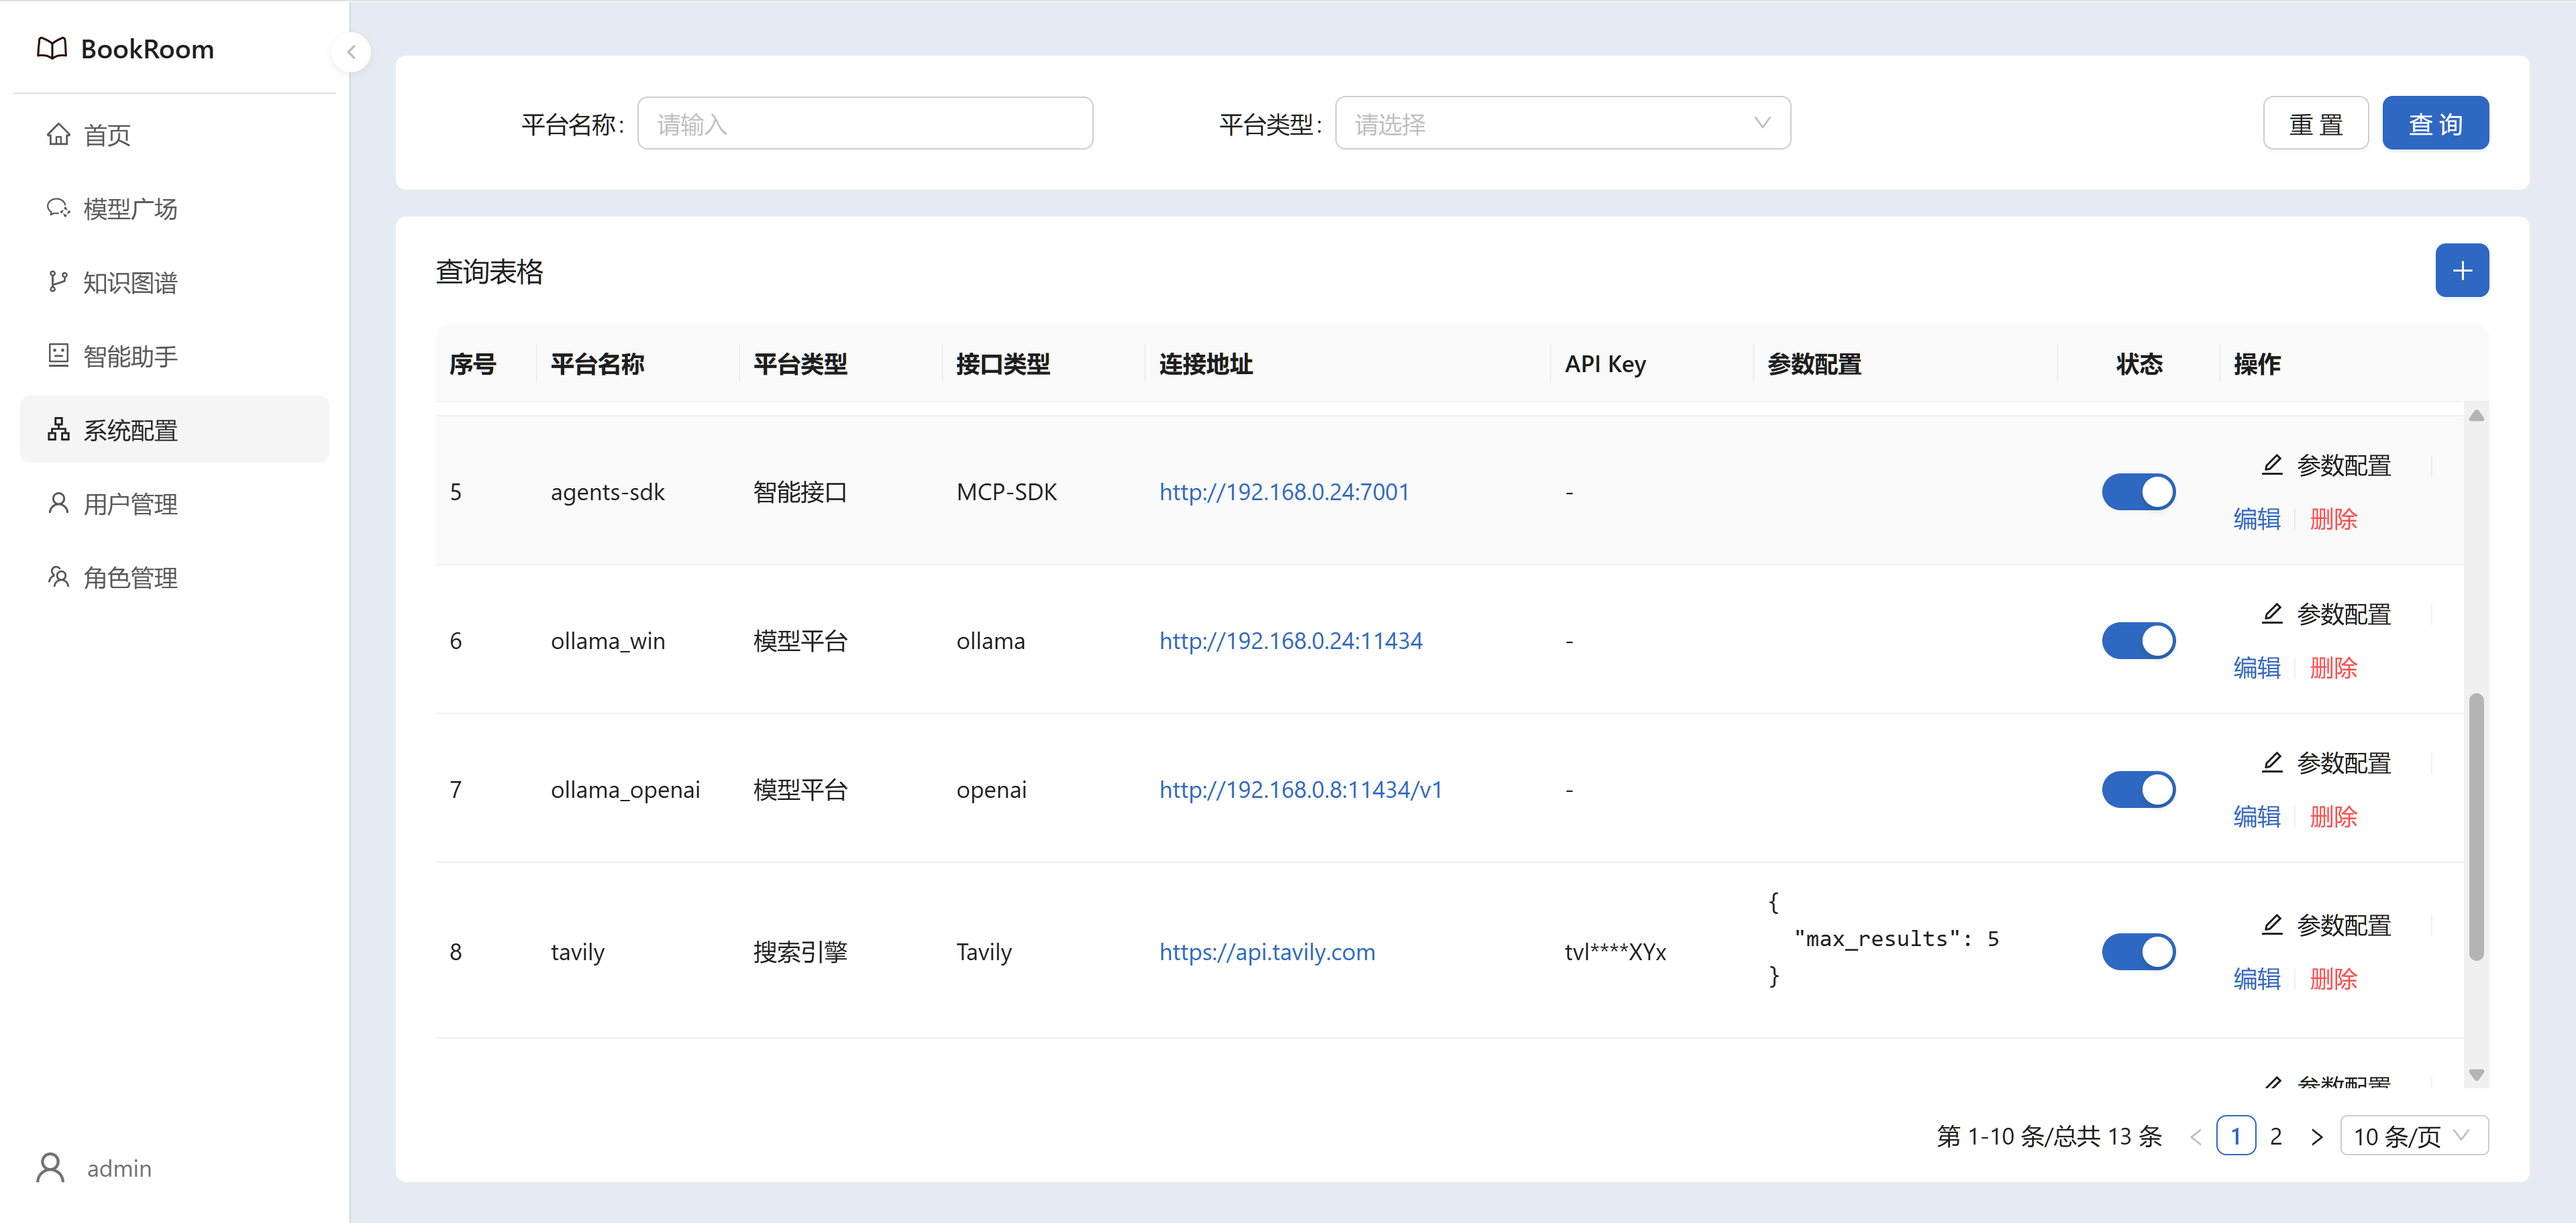
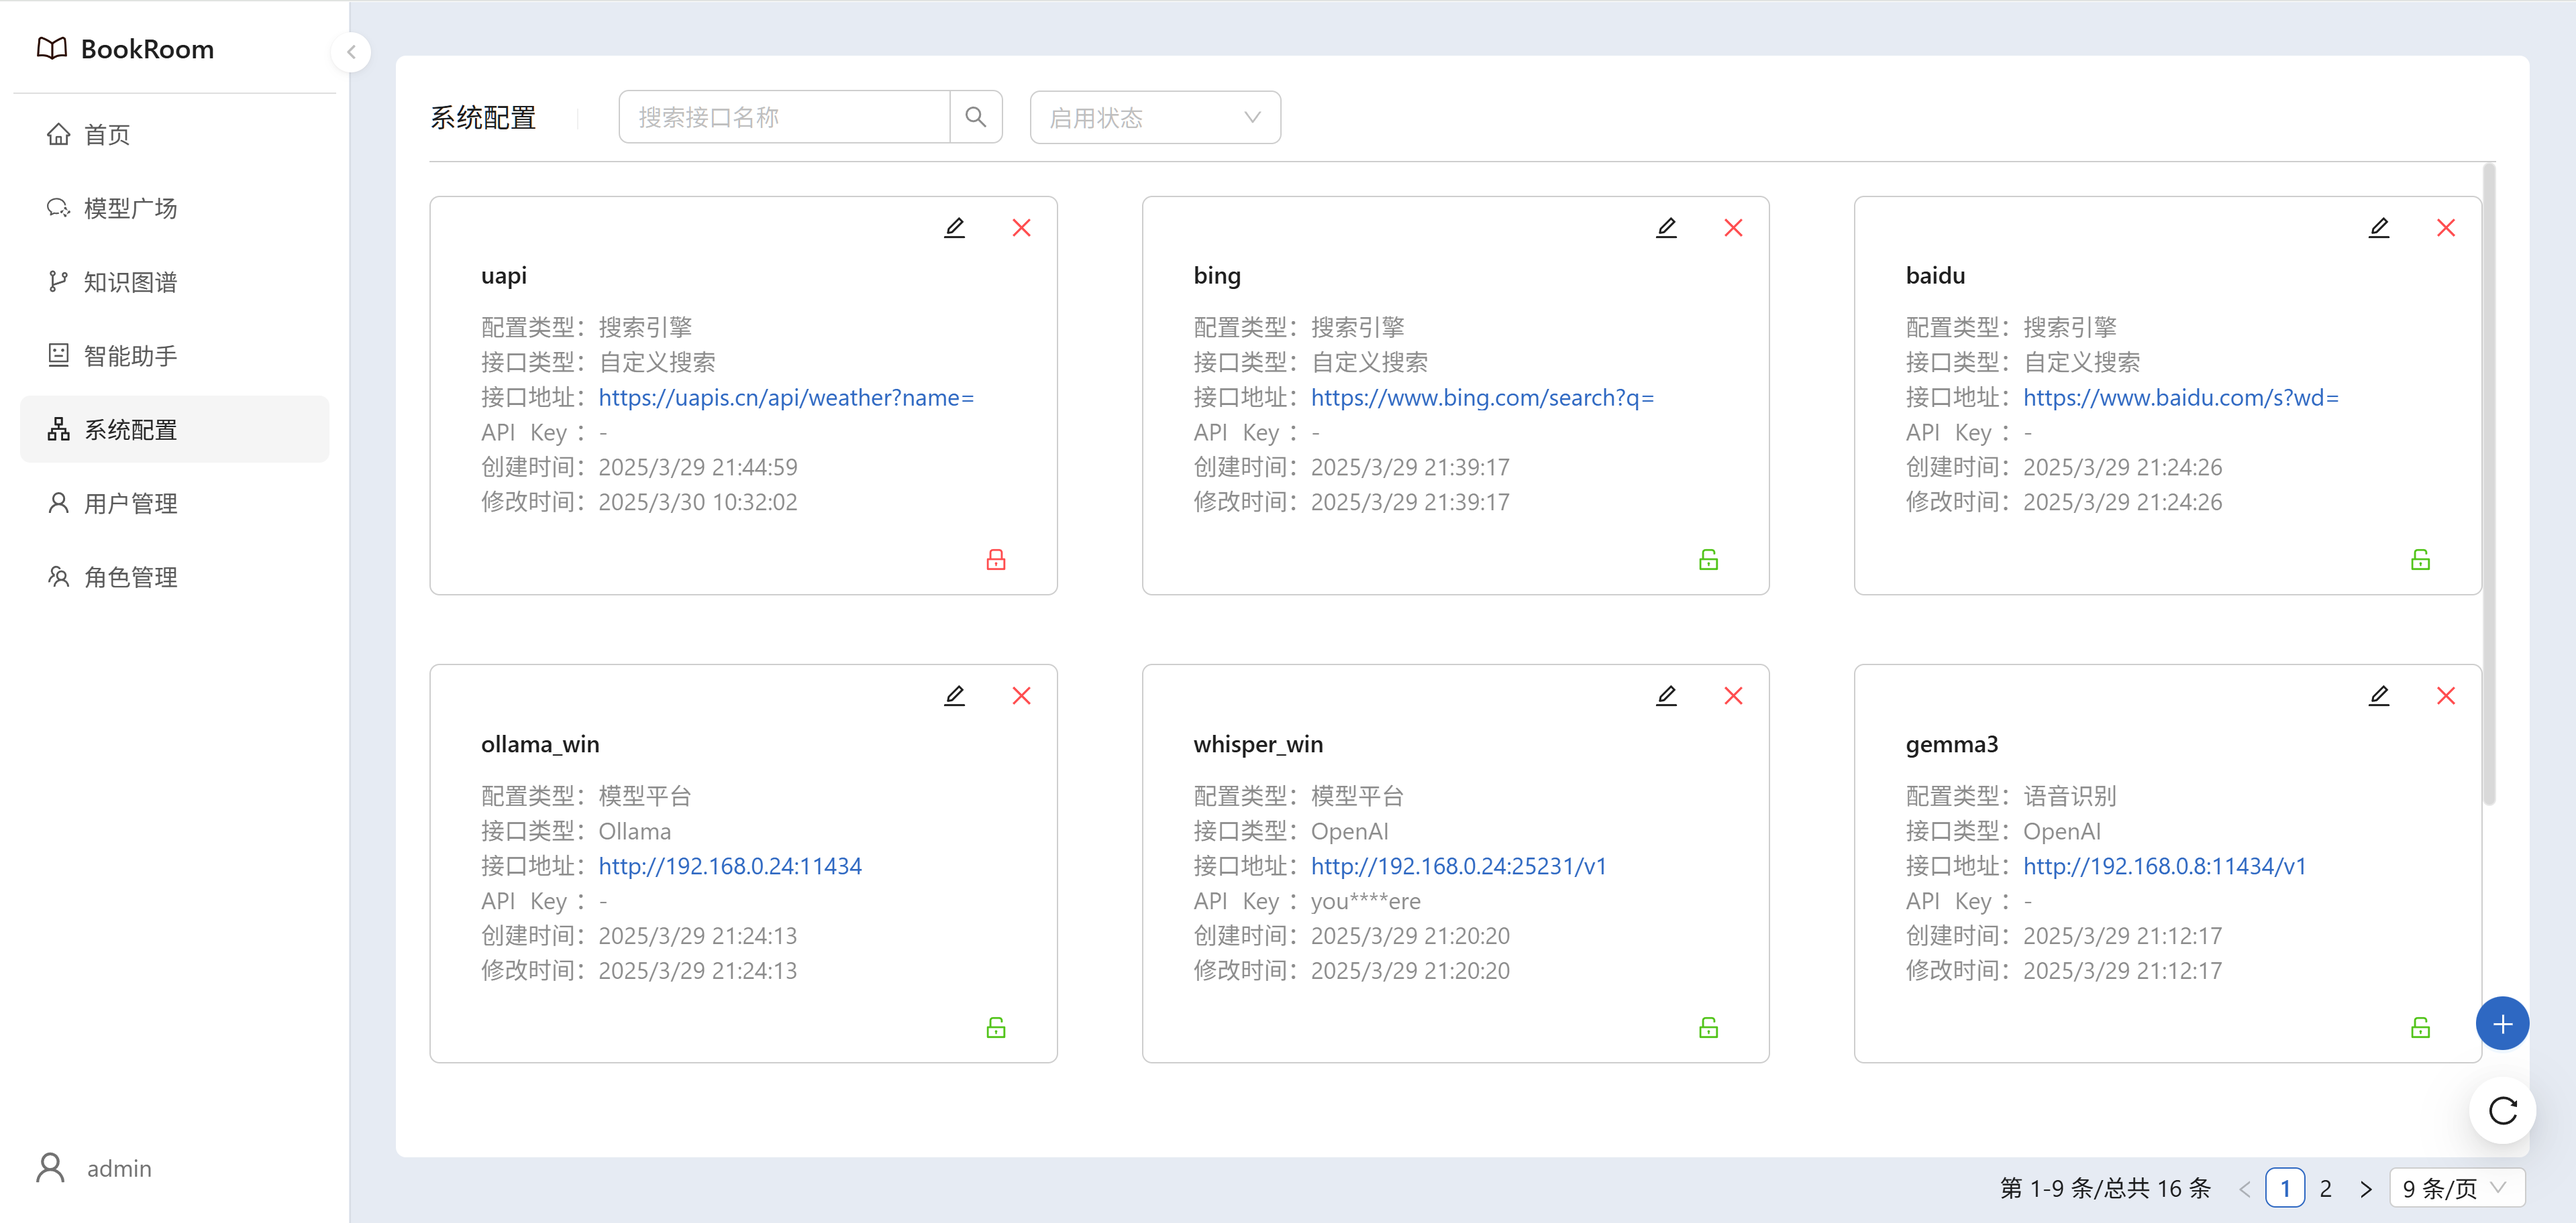
chore(UI): 优化交互，移除LightRag_Multi接口类型，新增BookRoom Rag，重启多空间、多模态知识图谱项目

diff --git a/bookroom-web/src/components/Platform/PlatformCard/index.less b/bookroom-web/src/components/Platform/PlatformCard/index.less
@@ -38,41 +38,31 @@
   padding: 0;
   // min-height: 200px;
   line-height: 1.2;
-  text-align: justify;
-  // word-break: keep-all;
-  // word-wrap: normal;
-  // white-space: pre-line;
-  overflow: hidden;
-
-  /* 使用省略号表示被省略的内容 */
-  text-overflow: ellipsis;
-
-  // /* 将元素作为弹性伸缩盒子模型处理 */
-  // display: -webkit-box;
-
-  // /* 限制最大行数为2行 */
-  // -webkit-line-clamp: 3;
-
-  // /* 设置垂直布局 */
-  // -webkit-box-orient: vertical;
 }
 
 .cardItemNode {
+  width: 100%;
   padding: 2px 0;
-  /* 确保超出容器的文本会被裁剪 */
-  white-space: nowrap;
+  display: flex;
+  flex-direction: row;
 
   .nodeLabel {
+    flex: none;
     width: 5em;
     padding: 0;
     text-align: justify;
     text-align-last: justify;
-    display: inline-block;
   }
 
   .nodeContent {
-    padding: 5px 0;
-    display: inline-block;
+    flex: 1;
+    padding: 0;
+    // 文字超出省略
+    overflow: hidden;
+    /* 确保超出容器的文本会被裁剪 */
+    white-space: nowrap;
+    /* 确保文本在一行内显示 */
+    text-overflow: ellipsis;
   }
 
   .dividerLabel {

diff --git a/bookroom-web/src/components/Agent/AgentCard/index.less b/bookroom-web/src/components/Agent/AgentCard/index.less
@@ -58,21 +58,31 @@
 }
 
 .cardItemNode {
+  width: 100%;
   padding: 2px 0;
+  display: flex;
+  flex-direction: row;
 
   .nodeLabel {
+    flex: none;
     width: 5em;
     padding: 0;
     text-align: justify;
     text-align-last: justify;
-    display: inline-block;
   }
 
   .nodeContent {
-    padding: 5px 0;
-    display: inline-block;
+    flex: 1;
+    padding: 0;
+    // 文字超出省略
+    overflow: hidden;
+    /* 确保超出容器的文本会被裁剪 */
+    white-space: nowrap;
+    /* 确保文本在一行内显示 */
+    text-overflow: ellipsis;
   }
-  .dividerLabel{
+
+  .dividerLabel {
     margin: 5px 0;
     font-size: 12px;
   }
@@ -107,7 +117,10 @@
     vertical-align: middle;
   }
 }
-
+.cardItemNode_description{
+  display: flex;
+  flex-direction: column;
+}
 // 头像/图标
 .cardItemAvatar {
   height: 24px;

diff --git a/bookroom-web/src/components/Platform/PlatformList/index.tsx b/bookroom-web/src/components/Platform/PlatformList/index.tsx
@@ -27,6 +27,7 @@ import styles from './index.less';
 import classNames from 'classnames';
 import PlatformCard from '@/components/Platform/PlatformCard';
 import { PLATFORM_STATUS_MAP } from '@/services/common/platform/enum';
+import { ReloadOutlined } from '@ant-design/icons';
 type PlatformListPropsType = {
   dataList: API.PlatformInfo[];
   refresh: () => void;
@@ -439,6 +440,14 @@ const PlatformList: React.FC<PlatformListPropsType> = (props) => {
             onFinished={(values) => handleAdd(values)}
             refresh={refresh}
           />
+          <FloatButton
+            tooltip="刷新"
+            icon={<ReloadOutlined />}
+            key="refresh"
+            onClick={() => {
+              refresh();
+            }}
+          ></FloatButton>
         </FloatButton.Group>
       </Space>
 

diff --git a/bookroom-web/src/components/Graph/GraphCard/index.less b/bookroom-web/src/components/Graph/GraphCard/index.less
@@ -58,16 +58,28 @@
 }
 
 .cardItemNode {
+  width: 100%;
   padding: 2px 0;
+  display: flex;
+  flex-direction: row;
 
   .nodeLabel {
+    flex: none;
+    width: 5em;
     padding: 0;
-    display: inline-block;
+    text-align: justify;
+    text-align-last: justify;
   }
 
   .nodeContent {
-    padding: 5px 0;
-    display: inline-block;
+    flex: 1;
+    padding: 0;
+    // 文字超出省略
+    overflow: hidden;
+    /* 确保超出容器的文本会被裁剪 */
+    white-space: nowrap;
+    /* 确保文本在一行内显示 */
+    text-overflow: ellipsis;
   }
 
   .nodeBox {

diff --git a/bookroom-web/src/components/Lm/LmCard/index.less b/bookroom-web/src/components/Lm/LmCard/index.less
@@ -58,16 +58,28 @@
 }
 
 .cardItemNode {
+  width: 100%;
   padding: 2px 0;
+  display: flex;
+  flex-direction: row;
 
   .nodeLabel {
+    flex: none;
+    width: 5em;
     padding: 0;
-    display: inline-block;
+    text-align: justify;
+    text-align-last: justify;
   }
 
   .nodeContent {
-    padding: 5px 0;
-    display: inline-block;
+    flex: 1;
+    padding: 0;
+    // 文字超出省略
+    overflow: hidden;
+    /* 确保超出容器的文本会被裁剪 */
+    white-space: nowrap;
+    /* 确保文本在一行内显示 */
+    text-overflow: ellipsis;
   }
 
   .nodeBox {

diff --git a/bookroom-web/src/components/Graph/GraphCard/index.tsx b/bookroom-web/src/components/Graph/GraphCard/index.tsx
@@ -50,7 +50,7 @@ const GraphCard: React.FC<GraphCardPropsType> = (props: GraphCardPropsType) => {
   const [loading, setLoading] = useState(false);
   const { getGraphInfo } = useModel('graphList');
   const graphInfo = getGraphInfo(item?.graph);
-  const canEdit = access.canSeeDev && mode === MODE_ENUM.EDIT && graphInfo?.code === AI_GRAPH_PLATFORM_MAP.lightrag_multi.value
+  const canEdit = access.canSeeDev && mode === MODE_ENUM.EDIT && graphInfo?.code === AI_GRAPH_PLATFORM_MAP.bookroomrag.value
 
 
   // 删除图谱空间

diff --git a/bookroom-web/src/components/Agent/AgentCard/index.tsx b/bookroom-web/src/components/Agent/AgentCard/index.tsx
@@ -107,7 +107,7 @@ const AgentCard: React.FC<AgentCardPropsType> = (props: AgentCardPropsType) => {
                   </div>
                 </div>
               )}
-              <div className={styles?.cardItemNode}>
+              <div className={classNames(styles.cardItemNode, styles.cardItemNode_description)}>
                 <Divider orientation="center" plain className={styles?.dividerLabel}>
                   描述
                 </Divider>

diff --git a/bookroom-web/src/components/Graph/GraphList/index.tsx b/bookroom-web/src/components/Graph/GraphList/index.tsx
@@ -56,7 +56,7 @@ const GraphList: React.FC<GraphListPropsType> = (props) => {
 
   const access = useAccess();
 
-  const canEdit = access.canSeeDev && mode === MODE_ENUM.EDIT  && graphInfo?.code === AI_GRAPH_PLATFORM_MAP.lightrag_multi.value
+  const canEdit = access.canSeeDev && mode === MODE_ENUM.EDIT  && graphInfo?.code === AI_GRAPH_PLATFORM_MAP.bookroomrag.value
 
   const isLoading = !!loading;
 

diff --git a/bookroom-api/api/common/ai.ts b/bookroom-api/api/common/ai.ts
@@ -40,9 +40,9 @@ export const AI_GRAPH_PLATFORM_MAP = {
     value: 'LightRAG',
     text: 'LightRAG',
   },
-  lightrag_multi: {
-    value: 'LightRAG_Multi',
-    text: 'LightRAG_Multi',
+  bookroomrag: {
+    value: 'BookRoomRAG',
+    text: 'BookRoom RAG',
   },
 };
 

diff --git a/bookroom-web/src/common/ai.ts b/bookroom-web/src/common/ai.ts
@@ -39,9 +39,9 @@ export const AI_GRAPH_PLATFORM_MAP = {
     value: 'LightRAG',
     text: 'LightRAG',
   },
-  lightrag_multi: {
-    value: 'LightRAG_Multi',
-    text: 'LightRAG_Multi',
+  bookroomrag: {
+    value: 'BookRoomRAG',
+    text: 'BookRoom RAG',
   },
 };
 

diff --git a/README.md b/README.md
@@ -21,13 +21,16 @@
 
 - ### 知识图谱（多知识图谱管理、2D/3D图谱展示、图谱问答）- 功能完善中
   - [LightRAG](https://github.com/HKUDS/LightRAG)
-  - [LightRAG_Multi(多图谱空间版本)](https://github.com/sndraw/LightRAG-Multi)
+  - [BookRoom RAG](https://github.com/sndraw/bookroom-rag)
 
 - ### 智能助手（多智能助手管理、自动执行任务）- 功能架构中
   - [BookRoom Agents](https://github.com/sndraw/bookroom-agents)
 
-- ### 语音识别（本地语音识别、云端语音识别）- 功能架构中
+- ### 语音识别（本地语音识别、云端语音识别）- 功能完善中
   - [BookRoom Audio](https://github.com/sndraw/bookroom-audio)
+
+- ### 智能管家 （智能设备管理、任务调度设置）- 功能架构中
+  - [BookRoom Robot](https://github.com/sndraw/bookroom-robot)
 
 - ### 用户管理
   - 用户注册和登录管理
@@ -46,22 +49,15 @@
 - [/bookroom-api/README.md](./bookroom-api/README.md)
 - [/bookroom-web/README.md](./bookroom-web/README.md)
 
-## 使用指南
-### 知识图谱添加步骤
-> 1. 登录系统
-> 2. 进入【系统配置】页面，点击“添加平台”按钮，填写并保存相关信息
-> 3. 进入【知识图谱】页面，点击“添加图谱空间”按钮，填写并保存相关信息
-> 4. 在图谱空间中上传文档，进行知识提取和图谱构建
-> 5. 完成后，系统会自动生成图谱，用户可以查看和管理生成的图谱，并进行相关问答
 
 ## 系统配置示例
 #### 模型平台-接口类型
-> 1. ollama：http://192.168.1.2:11434
-> 2. openai：https://dashscope.aliyuncs.com/compatible-mode/v1
+> 1. Ollama：http://192.168.1.2:11434
+> 2. OpenAI：https://dashscope.aliyuncs.com/compatible-mode/v1
 
 #### 知识图谱-接口类型 - 完善中
-> 1. LightRAG：http://127.0.0.1:19621
-> 2. LightRAG_Multi：http://127.0.0.1:19621
+> 1. LightRAG：http://192.168.1.2:19621
+> 2. BookRoom RAG: //192.168.1.2:19621
 
 #### 智能助手-接口类型 - 开发中
 > 1. MCP SDK: http://192.168.1.2:25230
@@ -69,6 +65,7 @@
 
 #### 搜索引擎-接口类型 - 开发中
 > 1. Tavily: https://api.tavily.com
+> 2. 自定义搜索: https://your-custom-search-engine.com/s?wd=搜索关键词
 
 #### 语音识别-接口类型 - 完善中
 > 1. OpenAI: http://192.168.1.2:25231/v1

diff --git a/bookroom-web/public/guide.md b/bookroom-web/public/guide.md
@@ -23,35 +23,31 @@
 
 - ### 知识图谱（多知识图谱管理、2D/3D图谱展示、图谱问答）- 功能完善中
   - [LightRAG](https://github.com/HKUDS/LightRAG)
-  - [LightRAG_Multi(多图谱空间版本)](https://github.com/sndraw/LightRAG-Multi)
+  - [BookRoom RAG](https://github.com/sndraw/bookroom-rag)
 
 - ### 智能助手（多智能助手管理、自动执行任务）- 功能架构中
   - [BookRoom Agents](https://github.com/sndraw/bookroom-agents)
 
-- ### 语音识别（本地语音识别、云端语音识别）- 功能架构中
+- ### 语音识别（本地语音识别、云端语音识别）- 功能完善中
   - [BookRoom Audio](https://github.com/sndraw/bookroom-audio)
-  
+
+- ### 智能管家 （智能设备管理、任务调度设置）- 功能架构中
+  - [BookRoom Robot](https://github.com/sndraw/bookroom-robot)
+
 - ### 用户管理
   - 用户注册和登录管理
   - 权限控制和角色管理
 
 ## 使用指南
-### 知识图谱添加步骤
-> 1. 登录系统
-> 2. 进入【系统配置】页面，点击“添加平台”按钮，填写并保存相关信息
-> 3. 进入【知识图谱】页面，点击“添加图谱空间”按钮，填写并保存相关信息
-> 4. 在图谱空间中上传文档，进行知识提取和图谱构建
-> 5. 完成后，系统会自动生成图谱，用户可以查看和管理生成的图谱，并进行相关问答
 
-
-### 系统配置示例
+## 系统配置示例
 #### 模型平台-接口类型
-> 1. ollama：http://192.168.1.2:11434
-> 2. openai：https://dashscope.aliyuncs.com/compatible-mode/v1
+> 1. Ollama：http://192.168.1.2:11434
+> 2. OpenAI：https://dashscope.aliyuncs.com/compatible-mode/v1
 
 #### 知识图谱-接口类型 - 完善中
-> 1. LightRAG：http://127.0.0.1:19621
-> 2. LightRAG_Multi：http://127.0.0.1:19621
+> 1. LightRAG：http://192.168.1.2:19621
+> 2. BookRoom RAG: //192.168.1.2:19621
 
 #### 智能助手-接口类型 - 开发中
 > 1. MCP SDK: http://192.168.1.2:25230
@@ -59,6 +55,7 @@
 
 #### 搜索引擎-接口类型 - 开发中
 > 1. Tavily: https://api.tavily.com
+> 2. 自定义搜索: https://your-custom-search-engine.com/s?wd=搜索关键词
 
 #### 语音识别-接口类型 - 完善中
-> 1. OpenAI: http://192.168.1.2:25231
+> 1. OpenAI: http://192.168.1.2:25231/v1
